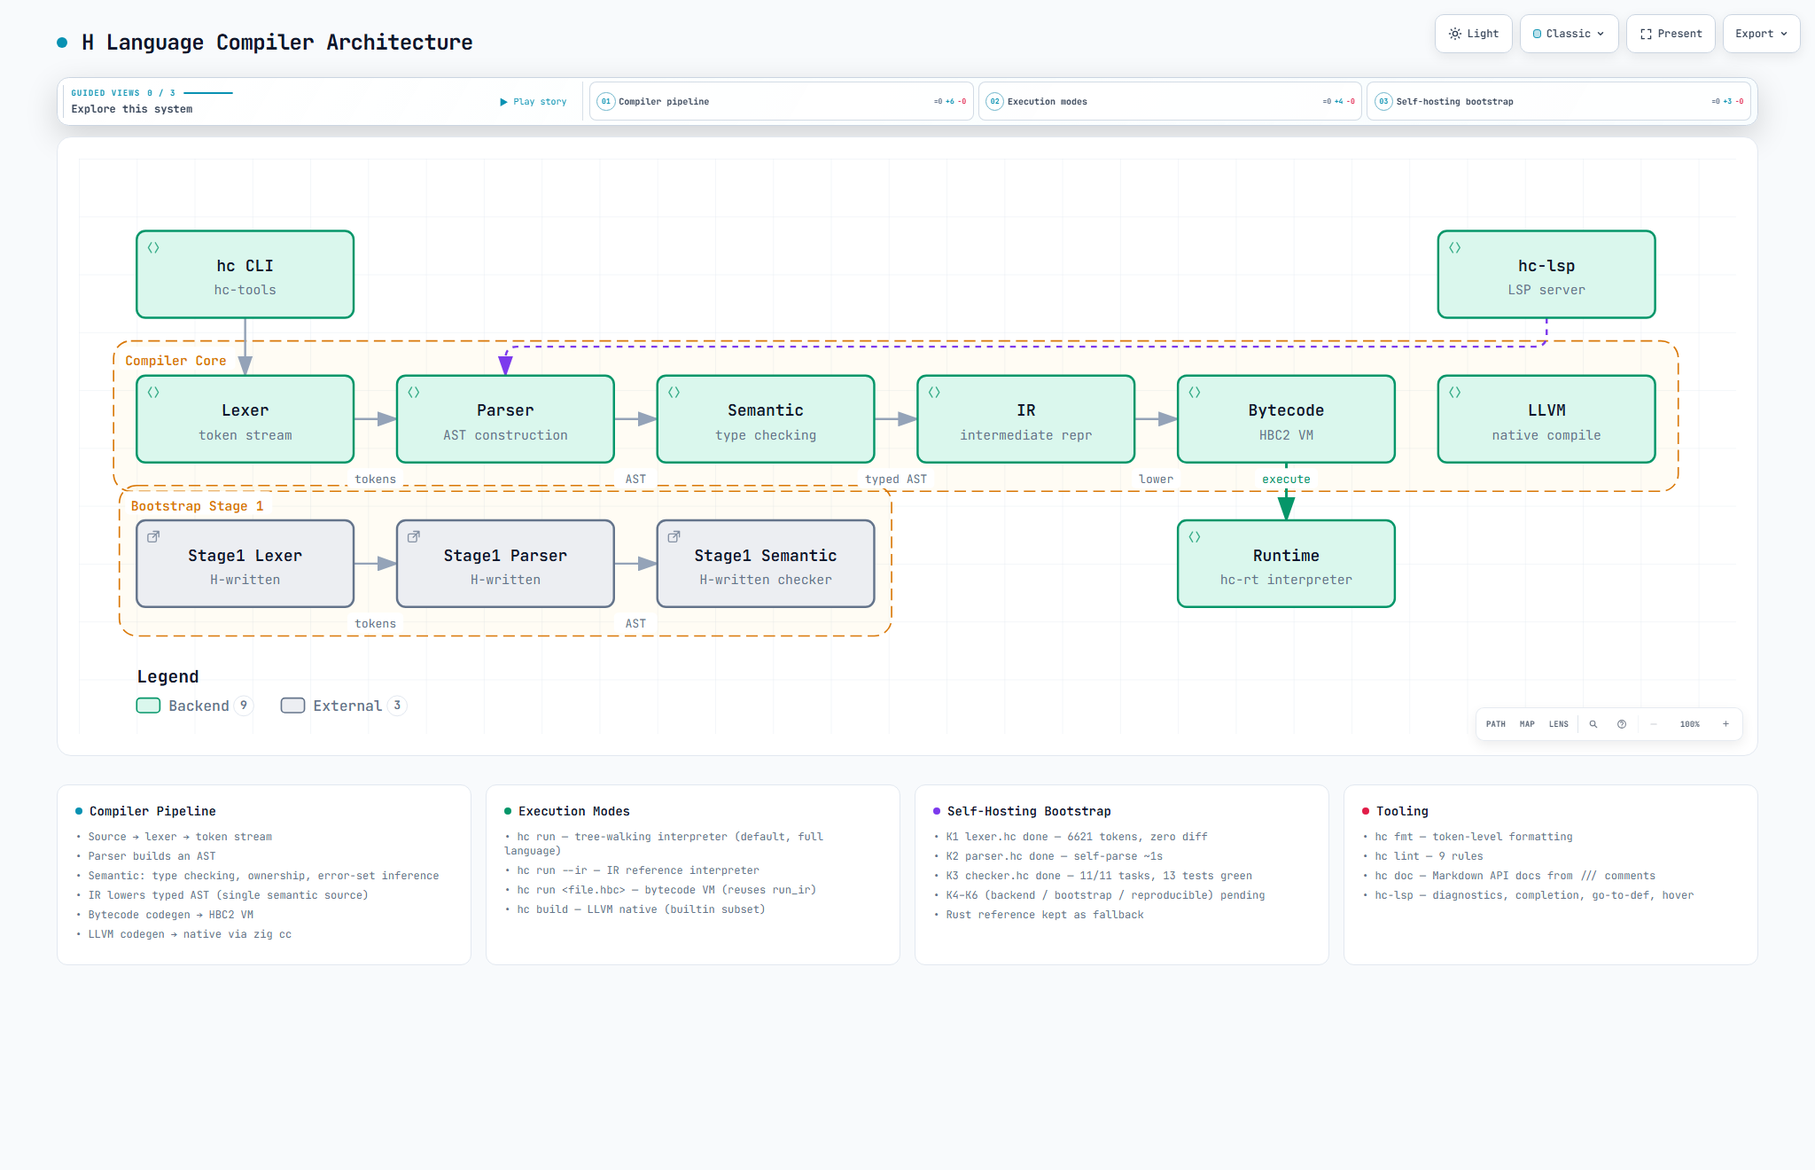
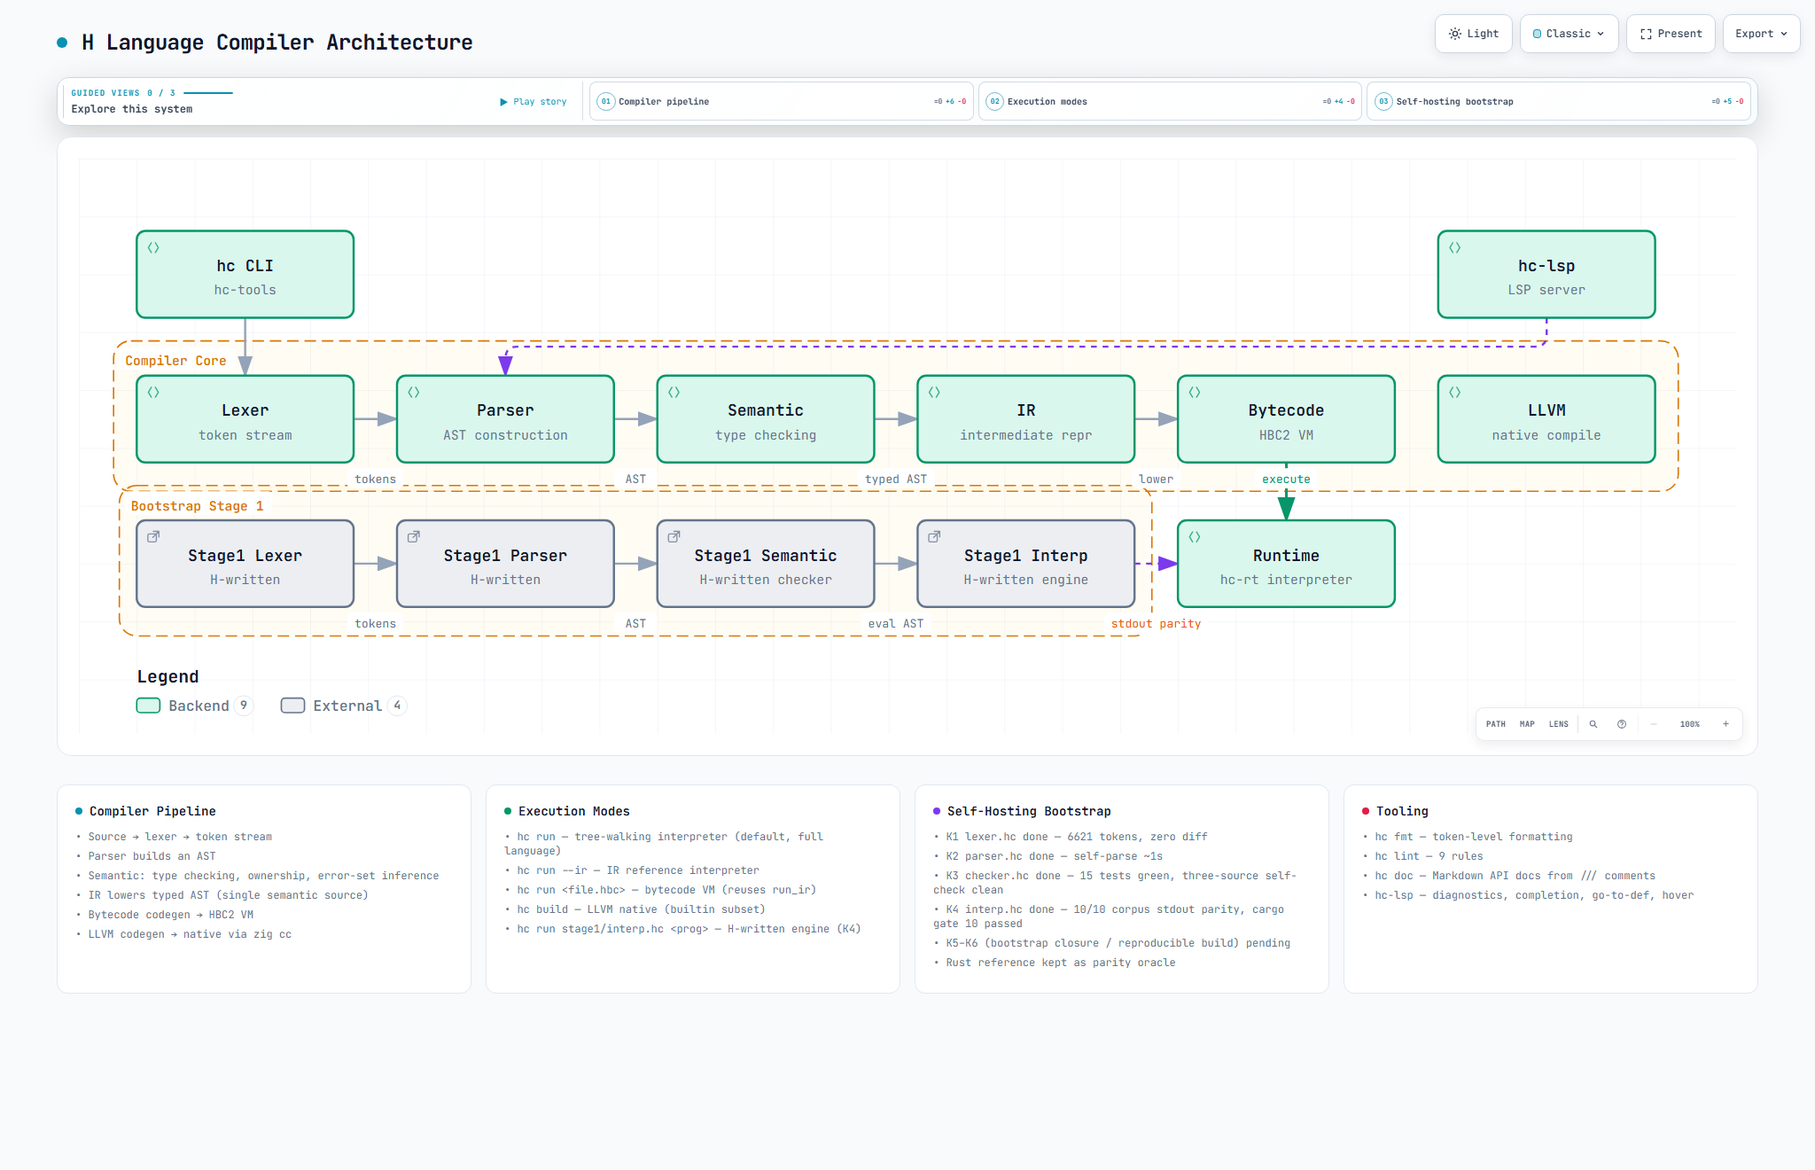
Add K5 minimal bootstrap plan and ADR-0029
Grilling session verdict: minimal self-host, full H chain
(interp runs stage2), .hbc artifact, byte-exact second bootstrap,
K5-pre interp silent-wrong fixes, minimal multi-file import.
Sync phase4 README link.

diff --git a/docs/architecture/h-language-architecture.html b/docs/architecture/h-language-architecture.html
@@ -4949,7 +4949,7 @@
       </div>
     </div>
 
-    <script id="archify-guided-views-data" type="application/json">[{"id":"pipeline","label":"Compiler pipeline","focus":["lexer","parser","semantic","ir","bytecode","llvm"],"note":"Follow source code through the full compilation pipeline."},{"id":"execution","label":"Execution modes","focus":["hc-cli","bytecode","llvm","runtime"],"note":"Tree-walking interpreter for development, LLVM native for production."},{"id":"bootstrap","label":"Self-hosting bootstrap","focus":["stage1-lexer","stage1-parser","stage1-semantic"],"note":"Stage1 H-written lexer/parser/checker — the bootstrap milestone."}]</script>
+    <script id="archify-guided-views-data" type="application/json">[{"id":"pipeline","label":"Compiler pipeline","focus":["lexer","parser","semantic","ir","bytecode","llvm"],"note":"Follow source code through the full compilation pipeline."},{"id":"execution","label":"Execution modes","focus":["hc-cli","bytecode","llvm","runtime"],"note":"Tree-walking interpreter for development, LLVM native for production."},{"id":"bootstrap","label":"Self-hosting bootstrap","focus":["stage1-lexer","stage1-parser","stage1-semantic","stage1-interp","runtime"],"note":"Stage1 H-written lexer/parser/checker/interp (K1–K4) — interp output must match the Rust reference byte-for-byte."}]</script>
 
     <div class="guided-views no-print" id="guided-views" hidden aria-label="Guided diagram views">
       <button id="guided-view-prev" type="button" aria-label="Previous guided view" title="Previous guided view ([)">&#8592;</button>
@@ -5020,7 +5020,7 @@
         <!-- Boundaries (behind everything) -->
         <rect data-graph-role="structural-frame" data-composition-frame-kind="region" data-composition-frame-id="0" data-composition-frame-label="Compiler Core" x="24" y="126" width="1082" height="104" rx="12" class="c-region" stroke-width="1"/>
 
-        <rect data-graph-role="structural-frame" data-composition-frame-kind="region" data-composition-frame-id="1" data-composition-frame-label="Bootstrap Stage 1" x="28" y="226" width="534" height="104" rx="12" class="c-region" stroke-width="1"/>
+        <rect data-graph-role="structural-frame" data-composition-frame-kind="region" data-composition-frame-id="1" data-composition-frame-label="Bootstrap Stage 1" x="28" y="226" width="714" height="104" rx="12" class="c-region" stroke-width="1"/>
 
         <!-- Connection paths (before components for correct z-order) -->
         <path data-edge-from="hc-cli" data-edge-to="lexer" data-edge-key="0" data-composition-points="115,110;115,150" d="M 115 110 L 115 150" class="a-default" stroke-width="1.5" marker-end="url(#arrowhead)"/>
@@ -5032,6 +5032,8 @@
         <path data-edge-from="bytecode" data-edge-to="runtime" data-edge-label="execute" data-edge-key="6" data-composition-points="835,210;835,250" d="M 835 210 L 835 250" class="a-emphasis" stroke-width="1.8" marker-end="url(#arrowhead-emphasis)"/>
         <path data-edge-from="stage1-lexer" data-edge-to="stage1-parser" data-edge-label="tokens" data-edge-key="7" data-composition-points="190,280;220,280" d="M 190 280 L 220 280" class="a-default" stroke-width="1.5" marker-end="url(#arrowhead)"/>
         <path data-edge-from="stage1-parser" data-edge-to="stage1-semantic" data-edge-label="AST" data-edge-key="8" data-composition-points="370,280;400,280" d="M 370 280 L 400 280" class="a-default" stroke-width="1.5" marker-end="url(#arrowhead)"/>
+        <path data-edge-from="stage1-semantic" data-edge-to="stage1-interp" data-edge-label="eval AST" data-edge-key="9" data-composition-points="550,280;580,280" d="M 550 280 L 580 280" class="a-default" stroke-width="1.5" marker-end="url(#arrowhead)"/>
+        <path data-edge-from="stage1-interp" data-edge-to="runtime" data-edge-label="stdout parity" data-edge-key="10" data-composition-points="730,280;760,280" d="M 730 280 L 760 280" class="a-dashed" stroke-width="1.5" marker-end="url(#arrowhead-dashed)"/>
 
         <!-- Components -->
         <g id="node-hc-cli" data-node-id="hc-cli" data-node-label="hc CLI" tabindex="0" role="button" aria-label="Focus hc CLI, hc-tools, Architecture component" aria-pressed="false" data-node-kind="backend" data-node-sublabel="hc-tools" data-node-tag="entry point" data-node-context="Architecture component">
@@ -5165,6 +5167,19 @@
         <text data-detail="fine" x="475" y="302" class="t-external" font-size="7" text-anchor="middle">K3 done</text>
         </g>
 
+        <g id="node-stage1-interp" data-node-id="stage1-interp" data-node-label="Stage1 Interp" tabindex="0" role="button" aria-label="Focus Stage1 Interp, H-written engine, Bootstrap Stage 1" aria-pressed="false" data-node-kind="external" data-node-sublabel="H-written engine" data-node-tag="K4 done" data-node-context="Bootstrap Stage 1">
+          <title>Stage1 Interp · H-written engine · Bootstrap Stage 1 · K4 done</title>
+          <rect x="580" y="250" width="150" height="60" rx="6" class="c-mask"/>
+          <rect x="580" y="250" width="150" height="60" rx="6" class="c-external" stroke-width="1.5"/>
+          <g aria-hidden="true" data-semantic-sigil="external" class="semantic-sigil s-external" transform="translate(586 256) scale(0.6875)">
+            <rect x="2.5" y="5" width="8.5" height="8" rx="1.5"/>
+            <path d="M8 2.5h5.5V8M13.5 2.5 7.5 8.5"/>
+          </g>
+          <text data-node-label data-detail-anchor x="655" y="278" class="t-primary" font-size="11" font-weight="600" text-anchor="middle">Stage1 Interp</text>
+        <text data-detail="context" x="655" y="294" class="t-muted" font-size="9" text-anchor="middle">H-written engine</text>
+        <text data-detail="fine" x="655" y="302" class="t-external" font-size="7" text-anchor="middle">K4 done</text>
+        </g>
+
         <g id="node-runtime" data-node-id="runtime" data-node-label="Runtime" tabindex="0" role="button" aria-label="Focus Runtime, hc-rt interpreter, Architecture component" aria-pressed="false" data-node-kind="backend" data-node-sublabel="hc-rt interpreter" data-node-context="Architecture component">
           <title>Runtime · hc-rt interpreter · Architecture component</title>
           <rect x="760" y="250" width="150" height="60" rx="6" class="c-mask"/>
@@ -5206,6 +5221,14 @@
         <g data-detail="context" data-edge-from="stage1-parser" data-edge-to="stage1-semantic" data-edge-label="AST" data-edge-key="8">
           <rect x="370" y="314" width="30" height="14" rx="3" class="c-mask"/>
           <text x="385" y="324" class="t-muted" font-size="8" text-anchor="middle">AST</text>
+        </g>
+        <g data-detail="context" data-edge-from="stage1-semantic" data-edge-to="stage1-interp" data-edge-label="eval AST" data-edge-key="9">
+          <rect x="540.8" y="314" width="48.4" height="14" rx="3" class="c-mask"/>
+          <text x="565" y="324" class="t-muted" font-size="8" text-anchor="middle">eval AST</text>
+        </g>
+        <g data-detail="context" data-edge-from="stage1-interp" data-edge-to="runtime" data-edge-label="stdout parity" data-edge-key="10">
+          <rect x="708.8" y="314" width="72.4" height="14" rx="3" class="c-mask"/>
+          <text x="745" y="324" class="t-messagebus" font-size="8" text-anchor="middle">stdout parity</text>
         </g>
 
         <!-- Boundary labels (foreground masks keep routes out of titles) -->
@@ -5442,6 +5465,7 @@
           <li>&bull; hc run --ir — IR reference interpreter</li>
           <li>&bull; hc run &lt;file.hbc&gt; — bytecode VM (reuses run_ir)</li>
           <li>&bull; hc build — LLVM native (builtin subset)</li>
+          <li>&bull; hc run stage1/interp.hc &lt;prog&gt; — H-written engine (K4)</li>
         </ul>
       </div>
 
@@ -5453,9 +5477,10 @@
         <ul>
           <li>&bull; K1 lexer.hc done — 6621 tokens, zero diff</li>
           <li>&bull; K2 parser.hc done — self-parse ~1s</li>
-          <li>&bull; K3 checker.hc done — 11/11 tasks, 13 tests green</li>
-          <li>&bull; K4–K6 (backend / bootstrap / reproducible) pending</li>
-          <li>&bull; Rust reference kept as fallback</li>
+          <li>&bull; K3 checker.hc done — 15 tests green, three-source self-check clean</li>
+          <li>&bull; K4 interp.hc done — 10/10 corpus stdout parity, cargo gate 10 passed</li>
+          <li>&bull; K5–K6 (bootstrap closure / reproducible build) pending</li>
+          <li>&bull; Rust reference kept as parity oracle</li>
         </ul>
       </div>
 

diff --git a/docs/SPEC/phase4/06-k5-execution-plan.md b/docs/SPEC/phase4/06-k5-execution-plan.md
@@ -1,0 +1,89 @@
+# K5 执行计划：自举闭环 stage2（最小自展 + 全 H 链）
+
+> 来源：2026-08-29 grilling 会话定案（Hank 全部确认），决策记录见 `docs/adr/0029-k5-minimal-bootstrap.md`。
+> 执行规则：沿用 K4 惯例——完成即测试验证 → 更新本文档进度 → 提交 → `node .gitnexus/run.cjs analyze --index-only`；单任务预估超 1h 即执行时细拆。
+> 目录约定：stage2 源码写 `stage2/`（多文件，`import .{sym}` 同目录互导）；测试/对照脚本/探针写 `stage2/test/`；K5-pre 求值面修复改 `stage1/interp.hc`。
+
+## 目标与验收
+
+- **目标**：H 编译器（H 程序）用 stage1 工具链编译自身；产物再编译产物（二次自举验证）。
+- **全 H 链**：`hc run stage1/interp.hc stage2/main.hc stage2/main.hc` → 产出 `A.hbc`；`hc run A.hbc stage2/main.hc` → 产出 `B.hbc`；**断言 A.hbc == B.hbc（逐字节）**。
+- **产物可执行**：`A.hbc` 作为程序执行的行为与 stage2 源码经 Rust 编译的行为一致。
+- **性能不进验收**：只登记自举一次的耗时基线。
+
+## 前置事实（2026-08-29 调查，证据见 grilling 会话记录）
+
+- 狗粮 10,491 行（lexer 718 / parser 2522 / checker 3499 / interp 3752）已实证：标量 u8/i32/i64/usize/f64/bool、`&[u8]` 切片、Vec/Map/?T、class+方法、位运算、`@intCast`、复合赋值、可选捕获、error/try/catch/orelse/.?。
+- **interp.hc 静默错误类**（求值面洞，不修则全 H 链产出错误结果不报错）：
+  1. `@intCast/@floatCast` 求值缺失（eval_call 只查用户 fn 表，结果 void）——interp.hc:3525-3563
+  2. 位运算 binop 缺失（Amp/Pipe/Caret/Shl/Shr/Tilde 无分支）——interp.hc:3261-3297
+  3. `if (opt)|v|` 捕获恒走 else（truthy 只认 bool/int，载荷不绑定）——interp.hc:2972-3026
+  4. 纯枚举 `==` 恒真（EnumLit 无求值分支降级 void，0==0）——interp.hc:3264-3267
+- switch 求值缺失（解析器已就绪 parse_switch_stmt:1801）；枚举声明解析已就绪（L1335）。
+- **.hbc 是唯一 Rust 侧零改动的产物格式**：`hc run file.hbc` → decode 49/49 指令（decode.rs:185-453）→ execute_ir；`ir/json.rs` 是 json.parse 值级解析器，非 IrModule 序列化器。
+- Rust 参考编译器 37,261 行；H 版为简化重写（stage1 四件套 vs Rust 前端约 1:1）。
+- 已知规避模式 R1–R10（class+kind 分发、Map 只存标量、手动写回、单遍编译顺序等）全部有狗粮先例。
+
+## stage2 编码纪律（违反即自举等价破坏或静默损坏）
+
+1. 禁 Map 迭代（确定性要求）；需要顺序时维护平行 key Vec。
+2. 禁 Map 存 class 实例（重定位损坏）；存标量索引（R2）。
+3. 容器方法调用改变内容后显式写回变量（R5）。
+4. 无闭包/接口/comptime/泛型用户代码/defer/元组（C 档绕过）。
+5. 单遍编译顺序：被依赖的自由函数先定义（R6）。
+6. switch/枚举负载用 if-else 链 + kind 字符串分发（R1/R7）——K5-pre 修完 switch 求值后可选使用 switch。
+7. 对象字段写用重建 + 写回（R10）。
+
+## 任务分解
+
+### 组 P：K5-pre 求值面修复（硬前提）
+
+| # | 任务 | 验收 | 预估 |
+|---|---|---|---|
+| P1 | `@intCast/@floatCast` 求值：eval_call 内建分支（Ident head 命中内建名表），宽度收窄/提升语义对齐 Rust 参考实测 | 探针：i64→u8 收窄、usize↔i64 往返与 `hc run` 一致 | ≤1h |
+| P2 | 位运算 binop：Amp/Pipe/Caret/Shl/Shr/Tilde（int 族），语义对齐 Rust（含 usize 移位） | 探针：lexer.hc 式 UTF-8 解码逻辑在 interp 下输出与 Rust 一致 | ≤1h |
+| P3 | `if (opt)\|v\|` 捕获：truthy 认 opt + 载荷绑定进块作用域；`while (opt)\|v\|` 同步评估（可选） | 探针：some 走 then 且载荷可用、none 走 else | ≤1h |
+| P4 | 纯枚举求值：Enum 声明登记（变体→序数）、EnumLit、`Enum.Variant` Field 访问、`==` 按序数 | 探针：`AllocSource.None == AllocSource.None` 真、不同变体假（对齐 Rust） | ≤1h |
+| P5 | switch 语句求值：字面量/枚举分支 + 或有守卫，执行语义对齐 Rust（不做穷举检查——checker 侧已有） | 探针：多分支命中/默认分支与 Rust 一致 | ≤1h |
+| P6 | K5-pre 对照语料：`exec-corpus/11-switch-enum.hc`、`12-cast-bits.hc`、`13-opt-capture.hc` + k4_interp.rs 摘 ignore + 全量回归 | cargo k4 全绿（13 passed） | ≤1h |
+| P7 | 最小多文件 import：checker + interp 支持 `import .{sym}` 同目录加载（parser 语法已就绪），顶层符号合并；环依赖检测报错 | 探针：两文件互导符号、循环 import 响亮报错 | ≤1h |
+
+### 组 S：stage2 编译器（`stage2/`，多文件）
+
+| # | 任务 | 验收 | 预估 |
+|---|---|---|---|
+| S1 | 源码骨架：`main.hc`（读源文件参数 + 阶段调度）+ `import .{lexer,parser,...}` 结构 + 纪律自查清单入库 | interp 检查通过、空编译跑通（产出空 .hbc 不要求） | ≤1h |
+| S2 | lexer 提取移植：从内嵌副本提取为 `lexer.hc`，适配多文件（去 self-contained 假设） | 对 6621 token 自身源码与 Rust lex 零 diff（复用 K1 对照法） | 1–3h |
+| S3 | parser 提取移植：`parser.hc` 多文件化，AST 节点模型对齐 stage2 子集 | 对 stage2 自身源码 parse 成功 + AST dump 对照抽查 | 1–3h |
+| S4 | semantic 裁剪：从 checker.hc 裁剪名称解析 + 签名/调用点类型检查（砍所有权/错误集推断） | 对 stage2 自身源码 0 误报 0 漏报（对照 Rust check） | 1–3h |
+| S5 | IR 模型：`IrModule/IrFunc/IrInst` class + kind 分发（按 stage2 子集圈定指令集，对照 ir_inst.rs 49 变体圈定） | 指令集清单入档（预计 ≤20 变体） | ≤1h |
+| S6 | lower：AST → IrInst（变量/算术/控制流→跳转/调用/常量池） | 手写探针程序 lower 产物人工抽查 + run_ir 可加载（经 .hbc） | 1–3h |
+| S7 | HBC2 encoder：魔数 HBC2/v7/opcode 表（对照 encode.rs 子集）+ func_index 表 | S6 产物编码后 `hc run` 能 decode 回读（round-trip 抽查） | 1–3h |
+| S8 | 闭环脚本：`stage2/test/bootstrap.bat`（interp 跑 stage2 → A.hbc；hc run A.hbc → B.hbc；fc /b diff）+ 编码纪律检查清单 | 脚本一键运行 | ≤1h |
+| S9 | 产物行为验证：A.hbc 执行输出与 stage2 源码经 Rust 编译执行输出对照 | 对照 MATCH | ≤1h |
+
+### 组 V：验收
+
+| # | 任务 | 验收 | 预估 |
+|---|---|---|---|
+| V1 | 字节级二次自举：A.hbc == B.hbc；耗时基线登记；全量回归（cargo workspace + k4） | diff 零差异；基线入档 | ≤1h |
+| V2 | 文档同步：01-bootstrap-plan Z4、phase4/README、stage1/README（或新增 stage2/README）、本计划状态表 | 文档一致；提交 | ≤1h |
+
+### 依赖顺序
+
+P1→P2→P3→P4→P5→P6→P7 → S1 → S2 → S3 → S4 → S5 → S6 → S7 → S8 → S9 → V1 → V2（P 组内部可并行；S2 依赖 P7 多文件）
+
+## 执行状态
+
+| 任务 | 状态 | 提交 | 备注 |
+|---|---|---|---|
+| P1–P7 | 🔴 | — | |
+| S1–S9 | 🔴 | — | |
+| V1–V2 | 🔴 | — | |
+
+## 风险登记
+
+- **checker.hc 裁剪回归**：S4 动 checker 副本时不得破坏 K3 对照门禁（15 项）——裁剪在 stage2/ 副本上进行，stage1/checker.hc 冻结。
+- **HBC2 编码器正确性**：decode 丢 `ret_ty`/`type_implements`（decode.rs:94,136）对 execute_ir 无碍（只要求 func_index 含 main），但 encoder 需避免依赖被丢字段。
+- **确定性漏洞**：任何 Map 迭代/哈希顺序依赖会破坏 V1 字节等价——纪律 1 执行中用探针盯防。
+- **工作量**：S2–S7 标 1–3h，执行时按 K4 惯例细拆为 ≤1h 步骤；stage2 语言子集若失控（贪心支持更多构造）立即回切纪律 1–7。

diff --git a/docs/adr/0029-k5-minimal-bootstrap.md b/docs/adr/0029-k5-minimal-bootstrap.md
@@ -1,0 +1,29 @@
+# K5 最小自展：全 H 链 + .hbc 产物
+
+**Status**: accepted（2026-08-29，grilling 会话定案）
+**关联**: `docs/SPEC/phase4/06-k5-execution-plan.md`（任务分解）、`01-bootstrap-plan.md` Z4
+
+## 决策
+
+K5 自举闭环采用**最小自展**策略，六项裁决：
+
+1. **范围**：stage2 = H 版编译器切片（lexer + parser + 裁剪 semantic + IR 生成 + HBC2 编码器），只编译 stage2 自身源码所用的语言子集；不完整复刻 Rust 编译器（37,261 行）。
+2. **全 H 链**：`interp.hc`（H 版求值器）执行 stage2 → stage2 编译 stage2 源码产出 `.hbc` → `hc run stage2.hbc`（Rust 字节码门）执行 → 再编译同一源码。
+3. **产物格式 = .hbc 字节码**（HBC2 v7）：Rust 侧 decode 49/49 指令全覆盖（`decode.rs:185-453`）、零新增；stage2 侧用 H 写 opcode 编码器（字节级发射，lexer.hc 的 UTF-8/数字编码是先例）。
+4. **二次自举等价 = 字节级**：interp 执行 stage2 产 A.hbc；`hc run A.hbc` 再编译同一 stage2 源码产 B.hbc；断言 A.hbc == B.hbc（逐字节 diff）。
+5. **前置修复（K5-pre）**：interp.hc 四个静默错误类（`@intCast` 求值缺失、位运算 binop 缺失、`if (opt)|v|` 捕获恒走 else、纯枚举 `==` 恒真）+ switch/枚举求值 + 同目录多文件 import（`import .{sym}`，checker/interp 补加载）。
+6. **semantic 裁剪复用 checker.hc**：名称解析 + 签名/调用点类型检查；所有权/错误集推断不做（stage2 源码纪律规避）。性能不进 K5 验收（只登记基线）。
+
+## Considered Options
+
+- **完整复刻 Rust 编译器**：工作量 ~3x，自举意义不变 → 对齐留给 K6 一致性阶段。
+- **新文本 IR / JSON IR 产物**：`ir/json.rs` 是 `json.parse` 值级解析器而非 IrModule 序列化器（调查纠正预设）；IrModule 级文本/JSON 设施双侧均无，IrModule 含 HashMap 需定序约定 → 弃。
+- **半 H 链（stage2 由 Rust `hc run` 执行）**：绕过求值洞但背离「用 H 编译 H」的定义 → 静默洞前置修复后走全 H 链。
+- **语义等价 vs 字节级等价**：字节级与 K4 逐字节对照纪律一致，自动化即一行 diff → 采字节级。
+
+## Consequences
+
+- interp.hc 求值洞从「已知余量」升级为 K5 硬前提：静默错误类不修，全 H 链会产出错误结果而不报错。
+- stage2 源码受编码纪律约束（禁 Map 迭代/Map 存 class 实例、容器方法调用后显式写回、无闭包/接口/comptime/泛型用户代码、单遍编译顺序），登记于 K5 计划。
+- stage2 破万行触发**最小多文件支持**（checker/interp 补 `import .{sym}` 同目录加载）——自举吃狗粮反馈设计（Z8）的首个正例。
+- Rust 参考实现保留为 parity oracle，不删除（自举失败风险对策）。

diff --git a/docs/SPEC/phase4/README.md b/docs/SPEC/phase4/README.md
@@ -40,7 +40,7 @@
 - **K3 H 版语义** ✅：`stage1/checker.hc`（11/11 任务，13 项对照测试全部通过）；自检 stage1 三源不崩溃 ✅（2026-08-29 修复 NoField 崩溃，详见 `04-execution-status.md`）
 - **K3.5 误报收敛** ✅：三源自检 0 误报（2026-08-29，k3 断言锁定）
 - **K4** ✅：H 版执行引擎完成（2026-08-29，10/10 执行语料与 Rust 参考逐字节一致，cargo 门禁 10 passed；细目见 `05-k4-execution-plan.md`）
-- **K5–K6** 🔴：待实现
+- **K5–K6** 🔴：待实现（K5 详细任务分解见 `06-k5-execution-plan.md`，策略定案见 ADR-0029）
 
 ### 1.x 延迟项（剩余）
 - ⏳ 包注册中心正式版
